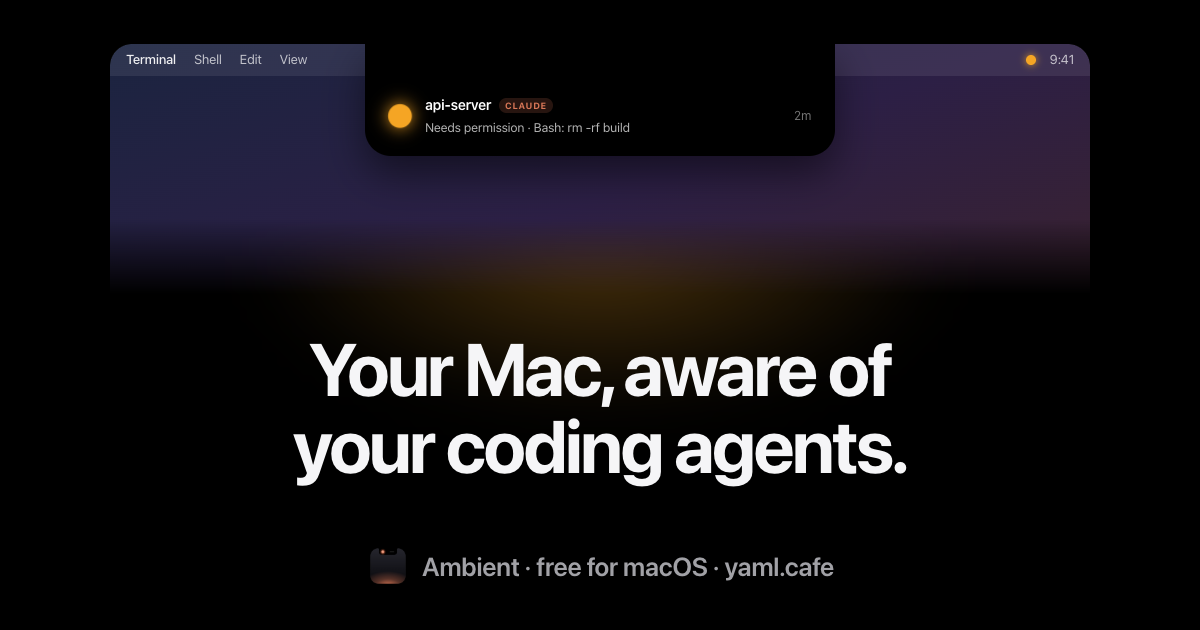
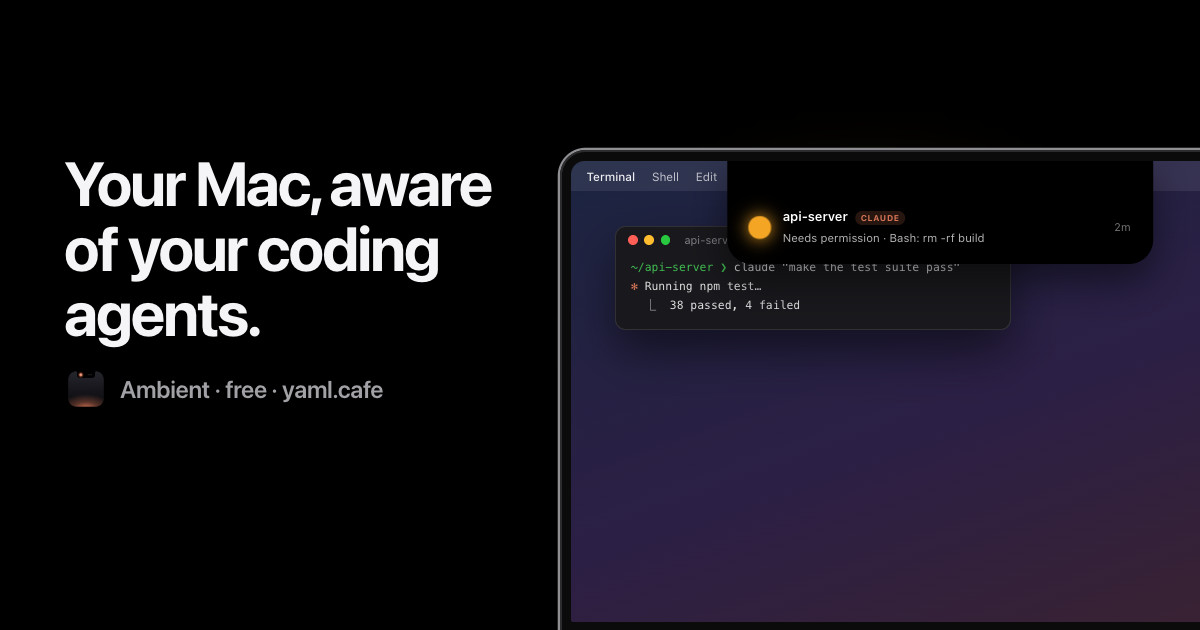
site: show the island on a whole MacBook at every width
On a phone the cropped screen read as an iPhone; the MacBook now scales in container units,
and a caption repeats the island's words where they're too small to read.

diff --git a/site/styles.css b/site/styles.css
@@ -76,9 +76,9 @@ code { font-family: var(--mono); font-size: 0.9em; }
 /* Hero */
 .hero { background: #000; color: #f5f5f7; overflow: hidden; position: relative; padding: 56px 0 96px; }
 .hero::before {
-  content: ""; position: absolute; left: 50%; top: 60px; width: 900px; height: 520px; transform: translateX(-50%);
+  content: ""; position: absolute; left: 50%; bottom: 40px; width: 1000px; height: 560px; transform: translateX(-50%);
   background: radial-gradient(closest-side, var(--glow, var(--claude)), transparent 70%);
-  opacity: 0.28; filter: blur(30px); transition: background 1s var(--ease);
+  opacity: 0.3; filter: blur(30px); transition: background 1s var(--ease);
   pointer-events: none;
 }
 .hero .wrap { position: relative; }
@@ -91,44 +91,80 @@ code { font-family: var(--mono); font-size: 0.9em; }
 .cta-row { display: flex; gap: 24px; align-items: center; justify-content: center; flex-wrap: wrap; }
 .fineprint { color: #86868b; font-size: 14px; margin-top: 18px; }
 
-/* The screen with the notch */
-.screen {
-  position: relative; margin: 0 auto; width: min(880px, 100%); height: 270px;
-  border-radius: 22px 22px 0 0; overflow: hidden;
-  background: linear-gradient(160deg, #1b2440 0%, #2c1f45 55%, #3a2230 100%);
-  box-shadow: 0 0 0 10px #1c1c1e, 0 0 0 11px #3a3a3c, 0 40px 80px rgba(0, 0, 0, 0.6);
-  -webkit-mask-image: linear-gradient(#000 70%, transparent);
-  mask-image: linear-gradient(#000 70%, transparent);
+/* The MacBook. Everything inside scales with its width (cqw), so it keeps its shape on a phone. */
+.macbook { container-type: inline-size; position: relative; width: min(820px, 86%); margin: 64px auto 0; }
+.lid {
+  background: #0b0b0c; border-radius: 3.4cqw 3.4cqw 0.9cqw 0.9cqw; padding: 1.5cqw 1.5cqw 2.3cqw;
+  box-shadow: inset 0 0 0 0.25cqw #2c2c2e, 0 0 0 0.3cqw #8e8e93, 0 3cqw 8cqw rgba(0, 0, 0, 0.6);
 }
+.display {
+  position: relative; aspect-ratio: 16 / 10; overflow: hidden; border-radius: 1.8cqw 1.8cqw 0.3cqw 0.3cqw;
+  background: linear-gradient(160deg, #1b2440 0%, #2c1f45 55%, #3a2230 100%);
+}
+.base {
+  position: relative; width: 116%; margin-left: -8%; height: 2.4cqw;
+  background: linear-gradient(#e8e8ed, #b7b8bd 35%, #6e6e73);
+  border-radius: 0.3cqw 0.3cqw 8cqw 8cqw / 0.3cqw 0.3cqw 1.8cqw 1.8cqw;
+}
+.base .scoop {
+  position: absolute; left: 50%; top: 0; transform: translateX(-50%); width: 15cqw; height: 0.9cqw;
+  background: linear-gradient(#8e8f94, #c7c8cc); border-radius: 0 0 1cqw 1cqw;
+}
+
 .menubar {
-  height: 32px; display: flex; align-items: center; gap: 18px; padding: 0 16px;
-  font-size: 13px; font-weight: 500; color: rgba(255, 255, 255, 0.92);
+  height: 3.9cqw; display: flex; align-items: center; gap: 2.2cqw; padding: 0 2cqw;
+  font-size: 1.55cqw; font-weight: 500; color: rgba(255, 255, 255, 0.92); letter-spacing: 0;
   background: rgba(255, 255, 255, 0.08);
 }
 .menubar .dim { color: rgba(255, 255, 255, 0.7); font-weight: 400; }
-.menubar .right { margin-left: auto; display: flex; gap: 14px; align-items: center; }
-.menubar .status-orb { width: 10px; height: 10px; border-radius: 50%; background: var(--state, var(--claude)); box-shadow: 0 0 8px var(--state, var(--claude)); transition: background 0.6s var(--ease), box-shadow 0.6s var(--ease); }
+.menubar .right { margin-left: auto; display: flex; gap: 1.7cqw; align-items: center; }
+.menubar .status-orb {
+  width: 1.2cqw; height: 1.2cqw; border-radius: 50%; background: var(--state, var(--claude));
+  box-shadow: 0 0 1cqw var(--state, var(--claude)); transition: background 0.6s var(--ease), box-shadow 0.6s var(--ease);
+}
 
 .island {
   position: absolute; top: 0; left: 50%; transform: translateX(-50%);
-  width: 300px; height: 32px; background: #000; color: #fff;
-  border-radius: 0 0 14px 14px;
+  width: 36cqw; height: 3.9cqw; background: #000; color: #fff; letter-spacing: 0;
+  border-radius: 0 0 1.7cqw 1.7cqw; overflow: hidden;
   transition: width 0.55s var(--spring), height 0.55s var(--spring), border-radius 0.55s var(--spring), box-shadow 0.4s var(--ease);
-  overflow: hidden;
 }
-.island.open { width: 460px; height: 112px; border-radius: 0 0 26px 26px; box-shadow: 0 18px 40px rgba(0, 0, 0, 0.5); }
-.island .wings { position: absolute; inset: 0 0 auto 0; height: 32px; display: flex; align-items: center; justify-content: space-between; padding: 0 16px; transition: opacity 0.25s var(--ease); }
+.island.open { width: 56cqw; height: 13.5cqw; border-radius: 0 0 3.2cqw 3.2cqw; box-shadow: 0 2.2cqw 5cqw rgba(0, 0, 0, 0.5); }
+.island .wings {
+  position: absolute; inset: 0 0 auto 0; height: 3.9cqw; display: flex; align-items: center; justify-content: space-between;
+  padding: 0 2cqw; transition: opacity 0.25s var(--ease);
+}
 .island.open .wings { opacity: 0; }
-.island .timer { font: 600 12px/1 var(--font); color: var(--state, var(--claude)); font-variant-numeric: tabular-nums; }
+.island .timer { font: 600 1.45cqw/1 var(--font); color: var(--state, var(--claude)); font-variant-numeric: tabular-nums; }
 .island .bloom {
-  position: absolute; left: 0; right: 0; top: 32px; bottom: 0; display: flex; align-items: center; gap: 14px; padding: 0 24px;
+  position: absolute; left: 0; right: 0; top: 3.9cqw; bottom: 0; display: flex; align-items: center; gap: 1.7cqw; padding: 0 2.9cqw;
   opacity: 0; transition: opacity 0.25s var(--ease);
 }
 .island.open .bloom { opacity: 1; transition-delay: 0.18s; }
-.bloom .title { display: flex; align-items: center; gap: 8px; font-weight: 600; font-size: 14px; }
-.bloom .tag { font: 700 9px/1 var(--font); letter-spacing: 0.06em; color: var(--claude); background: rgba(217, 119, 87, 0.18); padding: 3px 6px; border-radius: 99px; }
-.bloom .msg { font-size: 12.5px; color: rgba(255, 255, 255, 0.7); margin-top: 3px; text-align: left; }
-.bloom .elapsed { margin-left: auto; font-size: 12px; color: rgba(255, 255, 255, 0.45); font-variant-numeric: tabular-nums; }
+.island .orb { width: 1.45cqw; height: 1.45cqw; box-shadow: 0 0 1.2cqw var(--state, var(--claude)); }
+.island .orb.big { width: 2.7cqw; height: 2.7cqw; }
+.island .orb.check::after, .island .orb.bang::after { font-size: 1.6cqw; line-height: 2.7cqw; }
+.bloom .title { display: flex; align-items: center; gap: 1cqw; font-weight: 600; font-size: 1.7cqw; }
+.bloom .tag { font: 700 1.1cqw/1 var(--font); letter-spacing: 0.06em; color: var(--claude); background: rgba(217, 119, 87, 0.18); padding: 0.35cqw 0.7cqw; border-radius: 99px; }
+.bloom .msg { font-size: 1.5cqw; color: rgba(255, 255, 255, 0.7); margin-top: 0.35cqw; text-align: left; }
+.bloom .elapsed { margin-left: auto; font-size: 1.45cqw; color: rgba(255, 255, 255, 0.45); font-variant-numeric: tabular-nums; }
+
+.term {
+  position: absolute; left: 5.8cqw; top: 8.5cqw; width: 52cqw; text-align: left; letter-spacing: 0;
+  border-radius: 1.4cqw; background: rgba(24, 24, 27, 0.94); border: 0.12cqw solid rgba(255, 255, 255, 0.1);
+  box-shadow: 0 3cqw 6cqw rgba(0, 0, 0, 0.5);
+}
+.term-bar { height: 3.4cqw; display: flex; align-items: center; gap: 0.85cqw; padding: 0 1.5cqw; font-size: 1.45cqw; color: rgba(255, 255, 255, 0.45); }
+.term-bar i { width: 1.3cqw; height: 1.3cqw; border-radius: 50%; background: #ff5f57; display: block; }
+.term-bar i:nth-child(2) { background: #febc2e; }
+.term-bar i:nth-child(3) { background: #28c840; margin-right: 1cqw; }
+.term pre { margin: 0; padding: 0.7cqw 1.9cqw 1.9cqw; font: 1.5cqw/1.65 var(--mono); color: rgba(255, 255, 255, 0.85); white-space: pre-wrap; }
+.term .p { color: var(--done); }
+.term .c { color: var(--claude); }
+
+/* On a phone the island's words are too small to read at laptop scale; a caption repeats them. */
+.island-caption { display: none; align-items: center; gap: 8px; margin: 26px 0 0; font-size: 15px; color: #a1a1a6; justify-content: center; }
+.island-caption .dot { background: var(--state, var(--claude)); box-shadow: 0 0 8px var(--state, var(--claude)); transition: background 0.4s var(--ease); }
 
 .orb { display: inline-block; position: relative; width: 12px; height: 12px; border-radius: 50%; background: var(--state, var(--claude)); box-shadow: 0 0 10px var(--state, var(--claude)); flex: none; transition: background 0.4s var(--ease), box-shadow 0.4s var(--ease); }
 .orb.breathe { animation: breathe 3.2s ease-in-out infinite; }
@@ -142,18 +178,6 @@ code { font-family: var(--mono); font-size: 0.9em; }
 .orb.bang::after { content: "!"; }
 @keyframes breathe { 0%, 100% { transform: scale(0.9); box-shadow: 0 0 4px var(--state, var(--claude)); } 50% { transform: scale(1.08); box-shadow: 0 0 16px var(--state, var(--claude)); } }
 
-.term {
-  position: absolute; left: 48px; top: 66px; width: min(430px, 62%); text-align: left;
-  border-radius: 12px; background: rgba(24, 24, 27, 0.94); border: 1px solid rgba(255, 255, 255, 0.1);
-  box-shadow: 0 24px 50px rgba(0, 0, 0, 0.5);
-}
-.term-bar { height: 28px; display: flex; align-items: center; gap: 7px; padding: 0 12px; font-size: 12px; color: rgba(255, 255, 255, 0.45); }
-.term-bar i { width: 11px; height: 11px; border-radius: 50%; background: #ff5f57; display: block; }
-.term-bar i:nth-child(2) { background: #febc2e; }
-.term-bar i:nth-child(3) { background: #28c840; margin-right: 8px; }
-.term pre { margin: 0; padding: 6px 16px 16px; font: 12.5px/1.65 var(--mono); color: rgba(255, 255, 255, 0.85); white-space: pre-wrap; }
-.term .p { color: var(--done); }
-.term .c { color: var(--claude); }
 
 /* Sections */
 section { padding: 110px 0; }
@@ -275,15 +299,10 @@ dialog[open] { animation: sheet-in 0.35s var(--spring); }
   .split { grid-template-columns: 1fr; gap: 32px; }
   .nav-links { display: none; }
   .nav .btn.small { margin-left: auto; }
-  .screen { height: 220px; }
-  .island { width: 240px; }
-  .island.open { width: min(360px, calc(100% - 20px)); height: 104px; }
-  .bloom .msg { font-size: 11.5px; }
   .dock i, .dock img { width: 32px; height: 32px; border-radius: 8px; }
   .dock-pill { width: 280px; }
-  .menubar .dim { display: none; }
-  .term { left: 16px; width: calc(100% - 32px); top: 120px; }
-  .term pre { font-size: 11px; }
+  .macbook { margin-top: 48px; }
+  .island-caption { display: flex; }
 }
 
 @media (prefers-reduced-motion: reduce) {

diff --git a/site/index.html b/site/index.html
@@ -36,38 +36,45 @@
 
 <header class="hero center" id="top">
   <div class="wrap">
-    <div class="screen" aria-hidden="true">
-      <div class="menubar">
-        <span>Terminal</span><span class="dim">Shell</span><span class="dim">Edit</span><span class="dim">View</span><span class="dim">Window</span>
-        <span class="right"><span class="status-orb"></span><span class="dim" id="clock">9:41</span></span>
-      </div>
-      <div class="term">
-        <div class="term-bar"><i></i><i></i><i></i><span>api-server — claude</span></div>
-        <pre><span class="p">~/api-server ❯</span> claude "make the test suite pass"
-<span class="c">✻</span> Running npm test…
-  ⎿  38 passed, 4 failed
-<span class="c">✻</span> Editing src/cache.ts</pre>
-      </div>
-      <div class="island" id="island-demo">
-        <div class="wings"><span class="orb breathe" id="wing-orb"></span><span class="timer" id="wing-timer">2m</span></div>
-        <div class="bloom">
-          <span class="orb big pulse" id="bloom-orb"></span>
-          <div>
-            <div class="title"><span id="bloom-title">api-server</span><span class="tag" id="bloom-tag">CLAUDE</span></div>
-            <div class="msg" id="bloom-msg">Needs permission · Bash: rm -rf build</div>
-          </div>
-          <span class="elapsed" id="bloom-elapsed">2m</span>
-        </div>
-      </div>
-    </div>
-    <p class="visually-hidden">An animation of Ambient's notch island: a coral orb while Claude works, an amber card when it needs permission, a green check when it's done.</p>
     <h1>Your Mac, aware of your coding agents.</h1>
     <p class="lede">Ambient turns what Claude Code, Codex and Gemini CLI are doing into calm signals at the notch, in notifications and along the Dock. Stop babysitting terminals. Never miss the moment an agent needs you.</p>
     <div class="cta-row">
       <button class="btn" data-download>Download for Mac</button>
       <a class="link-btn" href="#island">See how it works ›</a>
     </div>
-    <p class="fineprint">Free · macOS 14 or later · Apple silicon and Intel · 2.6 MB</p>
+    <p class="fineprint">Free · macOS 14 or later · Apple silicon and Intel · 2.6&nbsp;MB</p>
+
+    <div class="macbook" aria-hidden="true">
+      <div class="lid">
+        <div class="display">
+          <div class="menubar">
+            <span>Terminal</span><span class="dim">Shell</span><span class="dim">Edit</span><span class="dim">View</span><span class="dim">Window</span>
+            <span class="right"><span class="status-orb"></span><span class="dim" id="clock">9:41</span></span>
+          </div>
+          <div class="term">
+            <div class="term-bar"><i></i><i></i><i></i><span>api-server — claude</span></div>
+            <pre><span class="p">~/api-server ❯</span> claude "make the test suite pass"
+<span class="c">✻</span> Running npm test…
+  ⎿  38 passed, 4 failed
+<span class="c">✻</span> Editing src/cache.ts</pre>
+          </div>
+          <div class="island" id="island-demo">
+            <div class="wings"><span class="orb breathe" id="wing-orb"></span><span class="timer" id="wing-timer">2m</span></div>
+            <div class="bloom">
+              <span class="orb big pulse" id="bloom-orb"></span>
+              <div>
+                <div class="title"><span id="bloom-title">api-server</span><span class="tag" id="bloom-tag">CLAUDE</span></div>
+                <div class="msg" id="bloom-msg">Needs permission · Bash: rm -rf build</div>
+              </div>
+              <span class="elapsed" id="bloom-elapsed">2m</span>
+            </div>
+          </div>
+        </div>
+      </div>
+      <div class="base"><span class="scoop"></span></div>
+    </div>
+    <p class="island-caption"><span class="dot"></span><span id="island-caption">Claude is working on api-server</span></p>
+    <p class="visually-hidden">An animation of Ambient on a MacBook: a coral orb at the notch while Claude works, an amber card when it needs permission, a green check when it's done.</p>
   </div>
 </header>
 

diff --git a/marketing/stills/og.html b/marketing/stills/og.html
@@ -3,29 +3,34 @@
 <link rel="stylesheet" href="../../site/styles.css">
 <style>
   html, body { margin: 0; width: 1200px; height: 630px; overflow: hidden; background: #000; }
-  .og { position: relative; width: 1200px; height: 630px; color: #f5f5f7; text-align: center; --state: var(--waiting); --glow: var(--waiting); }
-  .og::before { content: ""; position: absolute; left: 50%; top: 20px; width: 1000px; height: 460px; transform: translateX(-50%);
-    background: radial-gradient(closest-side, var(--waiting), transparent 70%); opacity: 0.3; filter: blur(30px); }
-  .og .screen { position: absolute; left: 50%; top: 44px; transform: translateX(-50%); width: 980px; height: 250px; }
-  .og .island { width: 470px; }
-  .og h1 { position: absolute; left: 0; right: 0; top: 330px; margin: 0; font-size: 74px; line-height: 1.04; letter-spacing: -0.035em; font-weight: 700; }
-  .og .by { position: absolute; left: 0; right: 0; bottom: 42px; display: flex; gap: 12px; justify-content: center; align-items: center; font-size: 26px; font-weight: 600; color: #a1a1a6; }
+  .og { position: relative; width: 1200px; height: 630px; overflow: hidden; color: #f5f5f7; --state: var(--waiting); --glow: var(--waiting); }
+  .og::before { content: ""; position: absolute; right: -80px; top: 60px; width: 820px; height: 560px;
+    background: radial-gradient(closest-side, var(--waiting), transparent 70%); opacity: 0.32; filter: blur(30px); }
+  .og .copy { position: absolute; left: 64px; top: 150px; width: 470px; }
+  .og h1 { margin: 0 0 22px; font-size: 62px; line-height: 1.05; letter-spacing: -0.035em; font-weight: 700; }
+  .og .by { display: flex; gap: 12px; align-items: center; font-size: 24px; font-weight: 600; color: #a1a1a6; }
   .og .by img { width: 44px; height: 44px; border-radius: 10px; }
+  .og .macbook { position: absolute; left: 560px; top: 150px; width: 760px; margin: 0; }
 </style></head>
 <body>
 <div class="og">
-  <div class="screen">
-    <div class="menubar"><span>Terminal</span><span class="dim">Shell</span><span class="dim">Edit</span><span class="dim">View</span><span class="right"><span class="status-orb"></span><span class="dim">9:41</span></span></div>
-    <div class="island open">
-      <div class="wings"></div>
-      <div class="bloom">
+  <div class="copy">
+    <h1>Your Mac, aware of your coding agents.</h1>
+    <div class="by"><img src="../../site/assets/icon-256.png" alt="">Ambient · free · yaml.cafe</div>
+  </div>
+  <div class="macbook">
+    <div class="lid"><div class="display">
+      <div class="menubar"><span>Terminal</span><span class="dim">Shell</span><span class="dim">Edit</span><span class="dim">View</span><span class="right"><span class="status-orb"></span><span class="dim">9:41</span></span></div>
+      <div class="term"><div class="term-bar"><i></i><i></i><i></i><span>api-server — claude</span></div><pre><span class="p">~/api-server ❯</span> claude "make the test suite pass"
+<span class="c">✻</span> Running npm test…
+  ⎿  38 passed, 4 failed</pre></div>
+      <div class="island open"><div class="wings"></div><div class="bloom">
         <span class="orb big pulse"></span>
         <div><div class="title"><span>api-server</span><span class="tag">CLAUDE</span></div><div class="msg">Needs permission · Bash: rm -rf build</div></div>
         <span class="elapsed">2m</span>
-      </div>
-    </div>
+      </div></div>
+    </div></div>
+    <div class="base"><span class="scoop"></span></div>
   </div>
-  <h1>Your Mac, aware of<br>your coding agents.</h1>
-  <div class="by"><img src="../../site/assets/icon-256.png" alt="">Ambient · free for macOS · yaml.cafe</div>
 </div>
 </body></html>

diff --git a/site/main.js b/site/main.js
@@ -15,21 +15,22 @@
   if (hero && island) {
     const el = (id) => document.getElementById(id);
     const scenes = [
-      { color: "var(--claude)", open: false, timer: "2m", wing: "breathe", hold: 3000 },
+      { color: "var(--claude)", open: false, timer: "2m", wing: "breathe", hold: 3000, caption: "Claude is working on api-server" },
       { color: "var(--waiting)", open: true, glyph: "pulse", title: "api-server", tag: "CLAUDE", tagColor: "var(--claude)",
-        msg: "Needs permission · Bash: rm -rf build", elapsed: "2m", hold: 4200 },
-      { color: "var(--claude)", open: false, timer: "3m", wing: "breathe", hold: 2600 },
+        msg: "Needs permission · Bash: rm -rf build", elapsed: "2m", hold: 4200, caption: "api-server needs your permission" },
+      { color: "var(--claude)", open: false, timer: "3m", wing: "breathe", hold: 2600, caption: "Claude is back at work" },
       { color: "var(--done)", open: true, glyph: "check", title: "api-server", tag: "CLAUDE", tagColor: "var(--claude)",
-        msg: "All 42 tests pass. Ready for review.", elapsed: "4m", hold: 4200 },
+        msg: "All 42 tests pass. Ready for review.", elapsed: "4m", hold: 4200, caption: "api-server is done: all 42 tests pass" },
       { color: "var(--error)", open: true, glyph: "bang", title: "docs", tag: "GEMINI", tagColor: "var(--gemini)",
-        msg: "Quota exceeded — retry in 2 minutes", elapsed: "1m", hold: 4200 },
-      { color: "var(--done)", open: false, timer: "✓", wing: "", hold: 2400 },
+        msg: "Quota exceeded — retry in 2 minutes", elapsed: "1m", hold: 4200, caption: "docs stopped: quota exceeded" },
+      { color: "var(--done)", open: false, timer: "✓", wing: "", hold: 2400, caption: "All done" },
     ];
 
     const show = (s) => {
       hero.style.setProperty("--state", s.color);
       hero.style.setProperty("--glow", s.color);
       island.classList.toggle("open", s.open);
+      el("island-caption").textContent = s.caption;
       if (s.open) {
         const orb = el("bloom-orb");
         orb.className = "orb big " + s.glyph;
